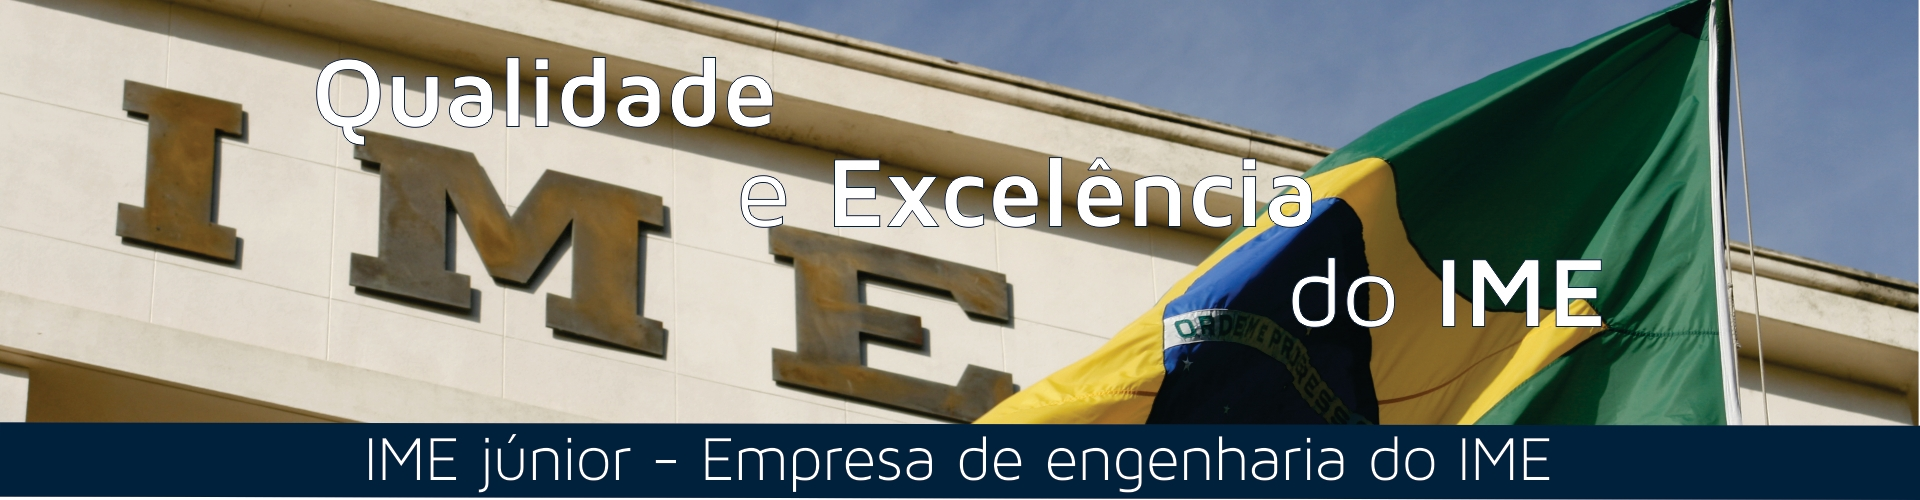
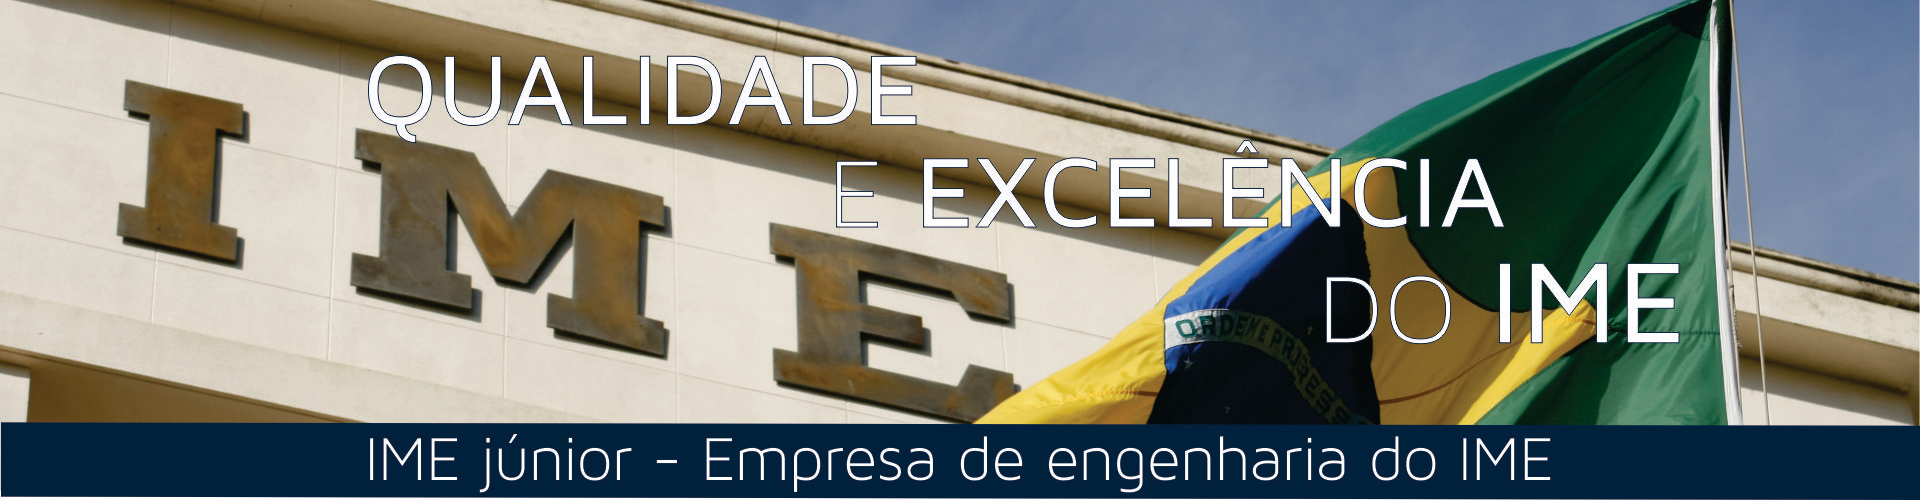
Imagens para celular prontas

diff --git a/index.html b/index.html
@@ -15,12 +15,12 @@ layout: default
 
         <div class="item">
             <img src="/img/home/headline2.jpg" class="hidden-xs" />
-            <img src="/img/home/headline1_xs.jpg" class="visible-xs" />
+            <img src="/img/home/headline2_xs.jpg" class="visible-xs" />
         </div>
 
         <div class="item">
             <img src="/img/home/headline3.jpg" class="hidden-xs" />
-            <img src="/img/home/headline1_xs.jpg" class="visible-xs" />
+            <img src="/img/home/headline3_xs.jpg" class="visible-xs" />
         </div>
 
     </div>
